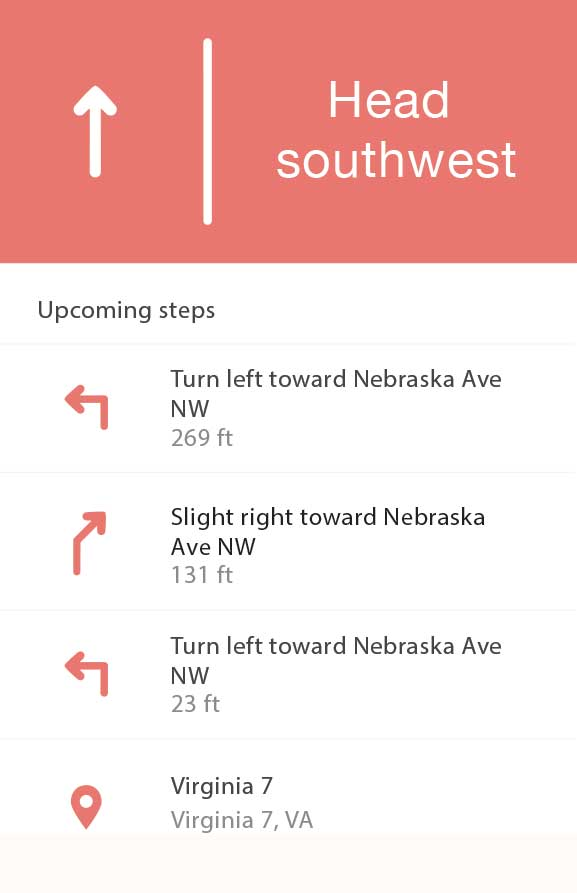
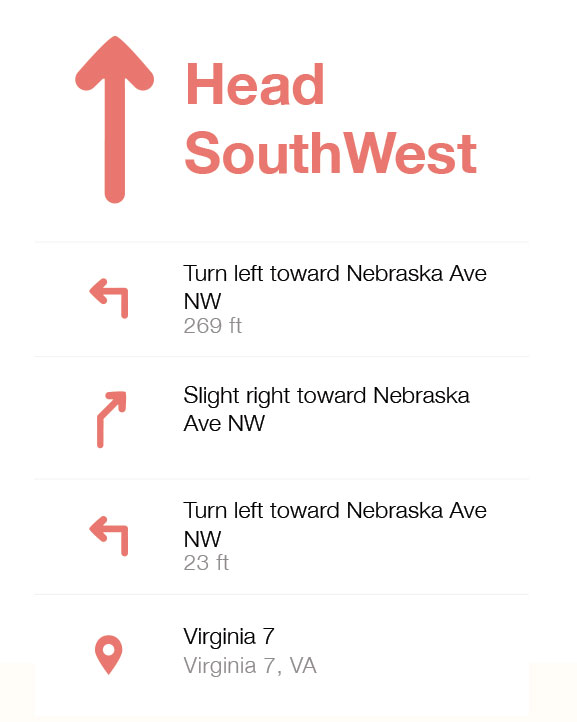
Added ending modal

diff --git a/play2.html b/play2.html
@@ -2,7 +2,7 @@
 <html>
   <head>
     <meta charset="utf-8">
-    <title>Perfect Day App</title>
+    <title>Perfect Day</title>
 
     <!-- Sets initial viewport load and disables zooming  -->
     <meta name="viewport" content="initial-scale=1, maximum-scale=1, user-scalable=no">
@@ -16,26 +16,16 @@
     <link rel="apple-touch-icon-precomposed" sizes="72x72" href="touch-icons/apple-touch-icon-72x72.png">
     <link rel="apple-touch-icon-precomposed" sizes="57x57" href="touch-icons/apple-touch-icon-57x57.png">
 
-
-    <!-- Include the compiled Ratchet CSS -->
-    <link rel="stylesheet" href="css/ratchet.css">
-    <link rel="stylesheet" href="css/slide.css">
-
-    <link rel="stylesheet" href="js/circle.skin/circle.player.css">
-
     <!-- Our CSS -->
     <link rel="stylesheet" href="css/i.css">
+    <link rel="stylesheet" href="js/circle.skin/circle.player.css">
 
-    <!-- Google Maps auth token; gotta figure out how to hide this I guess -->
+    <!-- Scripts -->
     <script src="js/libs/jquery.js"></script>
-
     <script src="js/libs/jquery-ui.js"></script>
-
     <script src="js/libs/modernizr.js"></script>
 
     <script src="js/libs/ratchet.js"></script>
-
-    <script src="js/libs/picturefill.js"></script>
 
     <script src="js/map.js"></script> 
 
@@ -77,13 +67,13 @@
   </section>
 
   <section class="second">
-    <a href="play3.html" class="button">next</a>
+    <a href="#end" class="button">end</a>
   </section>
   
 
   <div class="component">
     <!-- Start Nav Structure -->
-    <button class="cn-button" id="cn-button"><img src="icons/tools-b.png" id="tools" /></button>
+    <button class="cn-button" id="cn-button"><img src="icons/tools-a.png" id="tools" /></button>
     <div class="cn-wrapper" id="cn-wrapper">
       <ul>
         <li><a href="#play"><img src="icons/play.png" /></a></li>
@@ -96,24 +86,37 @@
     <!-- End Nav Structure -->
   </div>
 
-  <!-- The directions modal -->
-  <div id="directions" class="modal">
+  <!-- The share modal -->
+  <div id="share" class="modal">
     <header class="bar-title">
-      <h1 class="title">Directions</h1>
-      <a class="button" href="#directions">Close</a>
+      <h1 class="title">Share</h1>
+      <a class="button" href="#share">Close</a>
     </header>
-  
+    
     <div class="content content-padded">
-      
-       <div class="media"><span ><img class="icon_direction" src="icons/direction1.png"></span><span class="directionbold">Head SouthWest</span></span></div>
-       <ul class="list"><li><div class="media"><span ><img class="icon_dir" src="icons/direction2.png"></span><span class="name_dir">Turn left towards Nebraska Ave. NW</br> <span class="light">269 ft</span></span></div></li>
-        <li><div class="media"><span ><img class="icon_dir" src="icons/direction3.png"></span><span class="name_dir">Slight right towards Massachusetts Ave. NW</br><span class="light">0.7 miles</span></span></div></li>
-         <li><div class="media"><span ><img class="icon_dir" src="icons/direction2.png"></span><span class="name_dir">Turn left towards Wisconson Ave. NW</br><span class="light">100 ft</span></span></div></li>
-          <li><div class="media"><span ><img class="icon_dir" src="icons/direction4.png"></span><span class="name_dir">Washington National Cathedral</br><span class="light">3701 Massachusetts Ave. NW</span></span></div></li></ul>
-          
+      <div class="media"><span class="icon"><img class="icon" src="icons/facebook_pink.png"></span><span class="name">Share on <strong>Facebook</strong></span></div>
+    <div class="media"><span class="icon"><img   class="icon"src="icons/twitter_pink.png"></span><span class="name">Share on <strong>Twitter</strong></span></div>
+    <div class="media"><span class="icon"><img class="icon" src="icons/foursquare_pink.png"></span><span class="name">Check In on <strong>Foursquare</strong></span></div>
+    <div class="media"><span class="icon"><img  class="icon" src="icons/gmail_pink.png"></span><span class="name">Share with <strong>Email</strong></span></div>
     </div>
   </div>
-<!-- The help modal -->
+
+  <div id="end" class="modal">
+    <header class="bar-title">
+      <h1 class="title">End</h1>
+      <a class="button" href="#share">Close</a>
+    </header>
+    <div class="content">
+      <img src="img/ending.jpg" />
+      <div class="content-padded">
+        <a class="button button-block">Explore</a>
+        <a class="button button-block">Play</a>
+    </div>
+  </div>
+
+
+
+  <!-- The help modal -->
   <div id="help" class="modal">
     <header class="bar-title">
       <h1 class="title">Help</h1>
@@ -135,83 +138,7 @@
     </div>
   </div>
 
-  <!--The End Modal -->
-
-  <div id="end" class="modal">
-    <header class="bar-title">
-      <h1 class="title">end</h1>
-      <a class="button" href="#end">
-        Close
-      </a>
-
-    </header>
-    
-    <div class="content content-padded">
-      </br></br></br><h1 class="head">Congratulations!</h1>
-      <h2 class="subhead">You just finished <span class="highlight">DC Ruins</highlight></h2>
-      <div class="endshare"><img class="B" src="icons/facebook_pink.png"><img class="B" src="icons/twitter_pink.png"><img class="B" src="icons/foursquare_pink.png"><img class="B" src="icons/gmail_pink.png"></div>
-      <p class="rate">Rate</p>
-      <img class="stars3" src="img/1star.png">
-      <div id="rule">
-      </div>
-    </br>
-<p class="next">What Next?</p>
-
-      <a class="button button-block" href="create.html">Create</a>
-      <a class="button button-block" href="explore.html">Explore</a>
-
-
-  </div>
-  </div>
-
-  <!-- The explore modal -->
-  
-  <div id="explore" class="modal">
-    <header class="bar-title">
-      <h1 class="title">Explore</h1>
-      <a class="button" href="#explore">Close</a>
-    </header>
-    
-    <div class="content content-padded">
-      <ul class="list">
-        <a href="experience.html"><li><img src="img/exp1.png"></li></a>
-        <li><img src="img/exp2.png"></li>
-          <li><img src="img/exp3.png"></li>
-           <li><img src="img/exp4.png"></li>
-            <li><img src="img/exp5.png"></li>
-             <li><img src="img/exp6.png"></li>
-      </ul></div></div>
-
-  
-  <!-- The share modal -->
-  <div id="share" class="modal">
-    <header class="bar-title">
-      <h1 class="title">Share</h1>
-      <a class="button" href="#share">Close</a>
-    </header>
-    
-    <div class="content content-padded">
-      <div class="media"><span class="icon"><img class="icon" src="icons/facebook_pink.png"></span><span class="name">Share on <span class="bold">Facebook</span></span></div>
-    <div class="media"><span class="icon"><img   class="icon"src="icons/twitter_pink.png"></span><span class="name">Share on <span class="bold">Twitter</span></span></div>
-    <div class="media"><span class="icon"><img class="icon" src="icons/foursquare_pink.png"></span><span class="name">Check In on <span class="bold">Foursquare</span></span></div>
-    <div class="media"><span class="icon"><img  class="icon" src="icons/gmail_pink.png"></span><span class="name">Share with <span class="bold">Email</span></span></div>
-    </div>
-  </div>
-
-
-  <!-- The help modal -->
-  <div id="help" class="modal">
-    <header class="bar-title">
-      <h1 class="title">Help</h1>
-      <a class="button" href="#help">Close</a>
-    </header>
-    
-    <div class="content content-padded">
-      <p>This is the help modal</p>
-    </div>
-  </div>
-
-   <!-- The play modal -->
+  <!-- The play modal -->
   <div id="play" class="modal">
     <header class="bar-title">
       <h1 class="title">Play</h1>
@@ -220,10 +147,7 @@
   
     <div class="content content-padded">
  <!-- The jPlayer div must not be hidden. Keep it at the root of the body element to avoid any such problems. -->
-    <div id="jquery_jplayer_1" class="cp-jplayer"></div>
-
-    <!-- This is the 2nd instance's jPlayer div -->
-    <div id="jquery_jplayer_2" class="cp-jplayer"></div>
+    <div id="jquery_jplayer_3" class="cp-jplayer"></div>
 
     <div class="prototype-wrapper"> <!-- A wrapper to emulate use in a webpage and center align -->
 
@@ -248,10 +172,42 @@
     </div>
     </div>
   </div>
+</div>
 
+  <!-- The directions modal -->
+  <div id="directions" class="modal">
+    <header class="bar-title">
+      <h1 class="title">11 hr 4 min</h1>
+      <a class="button" href="#directions">Close</a>
+    </header>
   
+    <div class="content">
+      <img src="img/directions.jpg" />
+    </div>
+          
+    </div>
+  </div>
 
-  <!-- The profile modal -->
+
+  <!-- The explore modal -->
+  
+  <div id="explore" class="modal">
+    <header class="bar-title">
+      <h1 class="title">Explore</h1>
+      <a class="button" href="#explore">Close</a>
+    </header>
+    
+    <div class="content content-padded">
+      <ul class="list">
+        <a href="experience.html"><li><img src="img/exp1.png"></li></a>
+        <li><img src="img/exp2.png"></li>
+          <li><img src="img/exp3.png"></li>
+           <li><img src="img/exp4.png"></li>
+            <li><img src="img/exp5.png"></li>
+             <li><img src="img/exp6.png"></li>
+      </ul></div></div>
+
+   <!-- The profile modal -->
   <div id="profile" class="modal">
     <header class="bar-title">
       <a class="button" href="#profile">Back</a>
@@ -260,7 +216,7 @@
     </header>
     
     <div class="content content-padded">
-      your name, settings
+      <img src="img/profile.png" />
     </div>
   </div>
 
@@ -286,34 +242,11 @@
     </div>
   </div>
 
-
   <!-- Our scripts -->
   <script src="js/nav.js"></script>
   <script src="js/libs/ui-slide.js"></script>
   <script src="js/libs/polyfills.js"></script>
   <script src="js/libs/circlenav.js"></script>
-  <script type="text/javascript">
-  $('#sidebarToggle').click(function() {
-    $('.sidebar').show("slide", 50);
-  });
-  $('#sidebarToggle2').click(function() {
-    $('.sidebar').hide("slide", 50);
-  });
+  <script src="js/inits.js"></script>
 
-  action = $('.action');
-
-  action.click(function() {
-    $('.sidebar').hide("slide", 25);
-  });
-
-    $(document).ready(function(){
-      var myCirclePlayer = new CirclePlayer("#jquery_jplayer_1",
-      {
-        m4a: "js/libs/gardens.m4a"
-      }, {
-        cssSelectorAncestor: "#cp_container_1"
-      });
-
-    });
-    </script>
 </html>

diff --git a/sass/_styles.scss b/sass/_styles.scss
@@ -148,8 +148,6 @@ button {
 	top: 50%;
 	margin-top: -50px;
 	margin-left: 80%;
-	
-
 }
 
 
@@ -335,17 +333,17 @@ ul {
 }
 
 
-///Directions///
-
+#end  {
+	img {
+		width: 100%;
+	}
+}
 
 #directions {
 	img {
 		width: 100%;
 	}
 }
-
-
-// Explore
 
 #explore {
 	li {

diff --git a/css/i.css b/css/i.css
@@ -2539,6 +2539,9 @@ ul li a {
 .help {
   height: 150px; }
 
+#end img {
+  width: 100%; }
+
 #directions img {
   width: 100%; }
 
